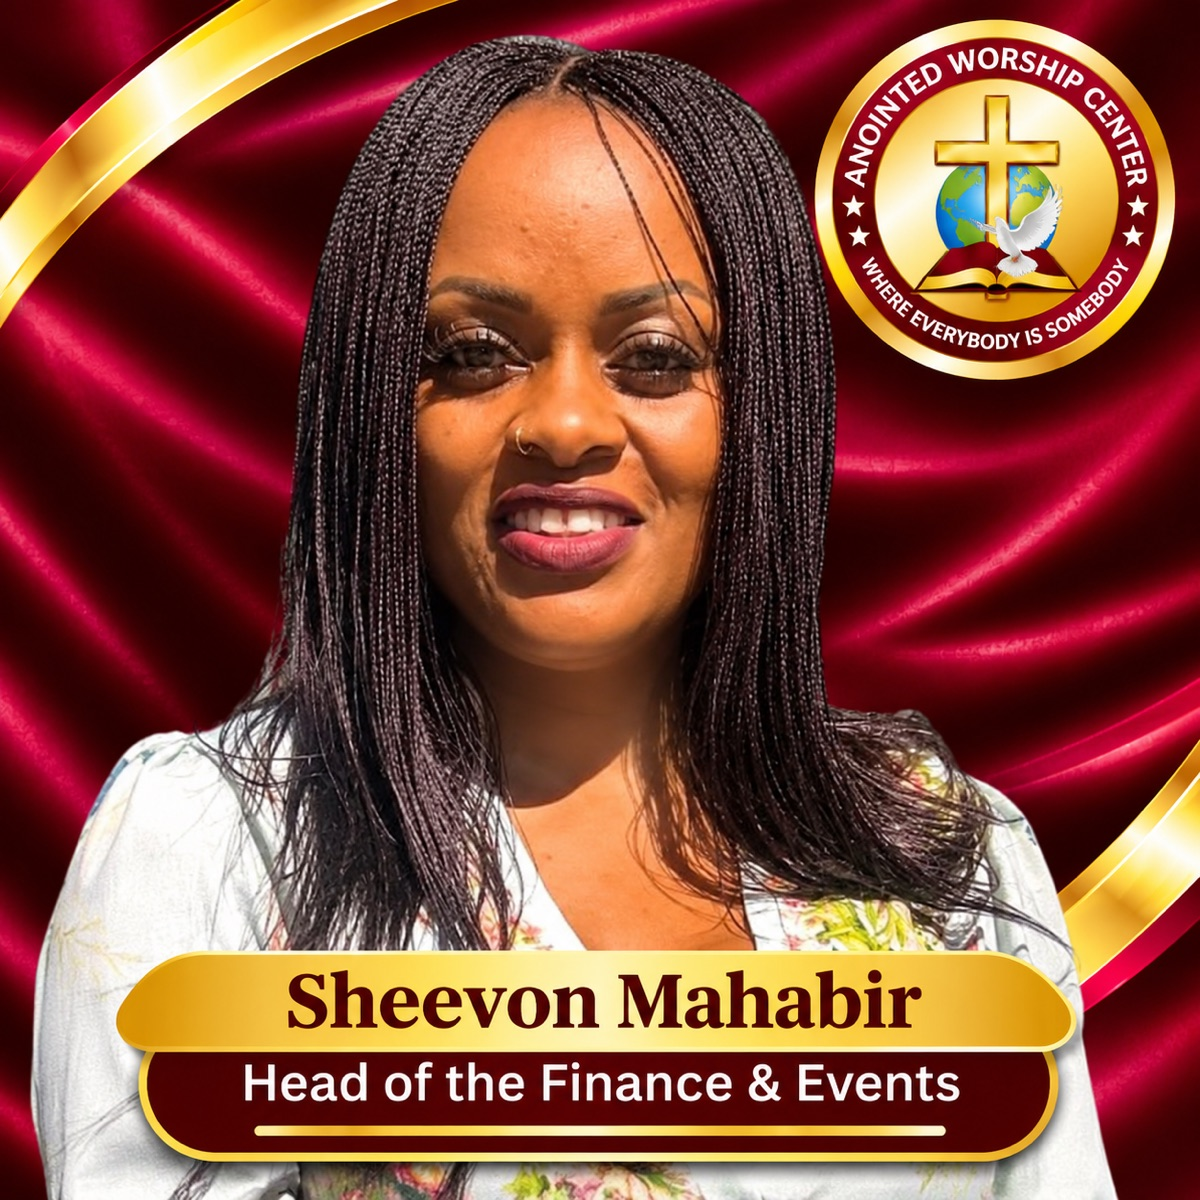
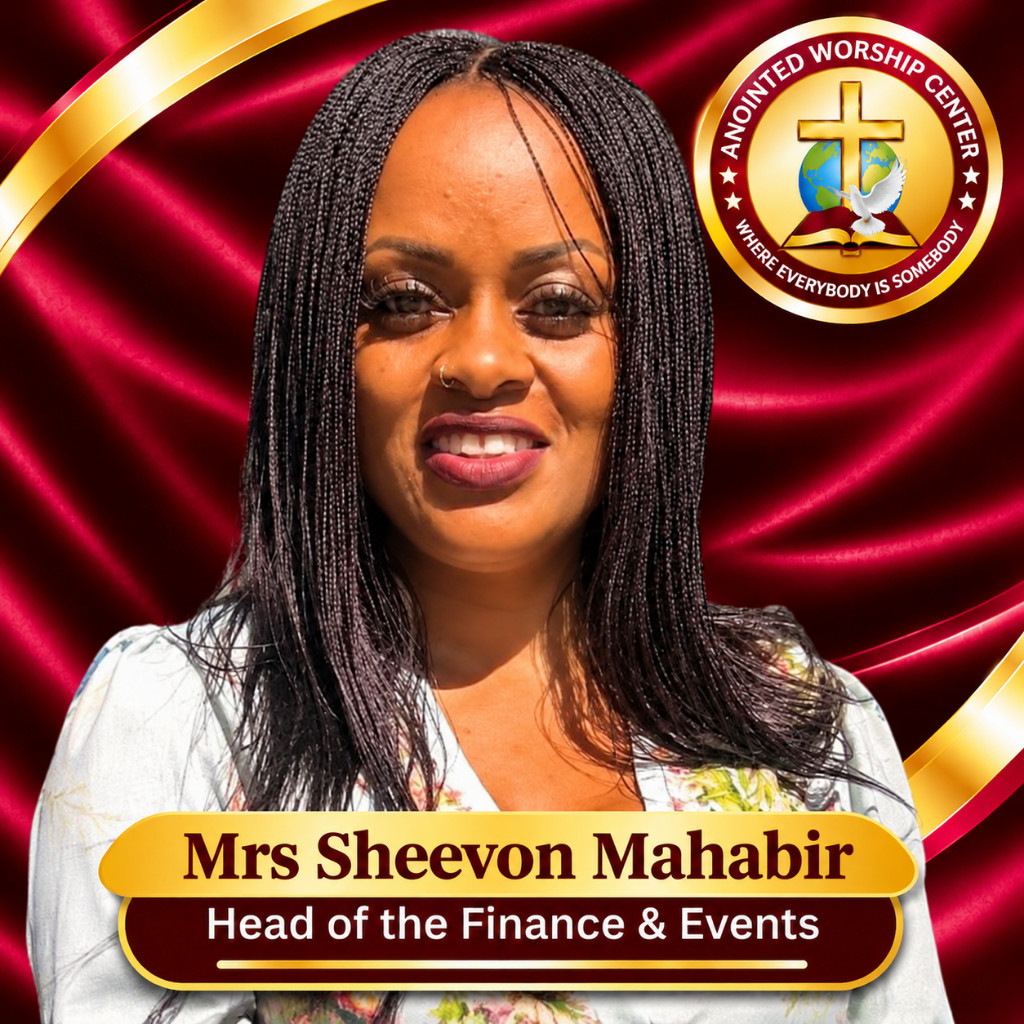
Update Sheevon Mahabir Ministry Leaders portrait.
Replace her leadership graphic with the Mrs. Sheevon Mahabir
Head of the Finance & Events portrait and match the display name.

diff --git a/src/pages/public/Ministries.tsx b/src/pages/public/Ministries.tsx
@@ -98,7 +98,7 @@ const MINISTRY_TEAM: TeamMember[] = [
     branded: true,
   },
   {
-    name: "Sheevon Mahabir",
+    name: "Mrs. Sheevon Mahabir",
     role: "Head of the Finance & Events",
     imageUrl: "/images/leadership/sheevon-mahabir.jpg",
     branded: true,
